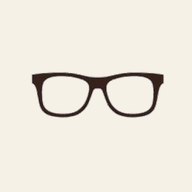
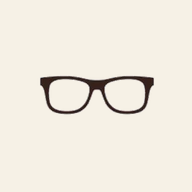
Add files via upload

Changed region(s): [[0.1562, 0.375, 0.875, 0.625]]

diff --git a/service-worker.js b/service-worker.js
@@ -1,8 +1,15 @@
-const CACHE_NAME = "grocery-run-v6";
+const CACHE_NAME = "grocery-run-v7";
 const ASSETS = [
   "./index.html",
   "./manifest.json",
+  "./icon-48.png",
+  "./icon-72.png",
+  "./icon-96.png",
+  "./icon-128.png",
+  "./icon-144.png",
+  "./icon-152.png",
   "./icon-192.png",
+  "./icon-384.png",
   "./icon-512.png",
   "./icon-512-maskable.png"
 ];